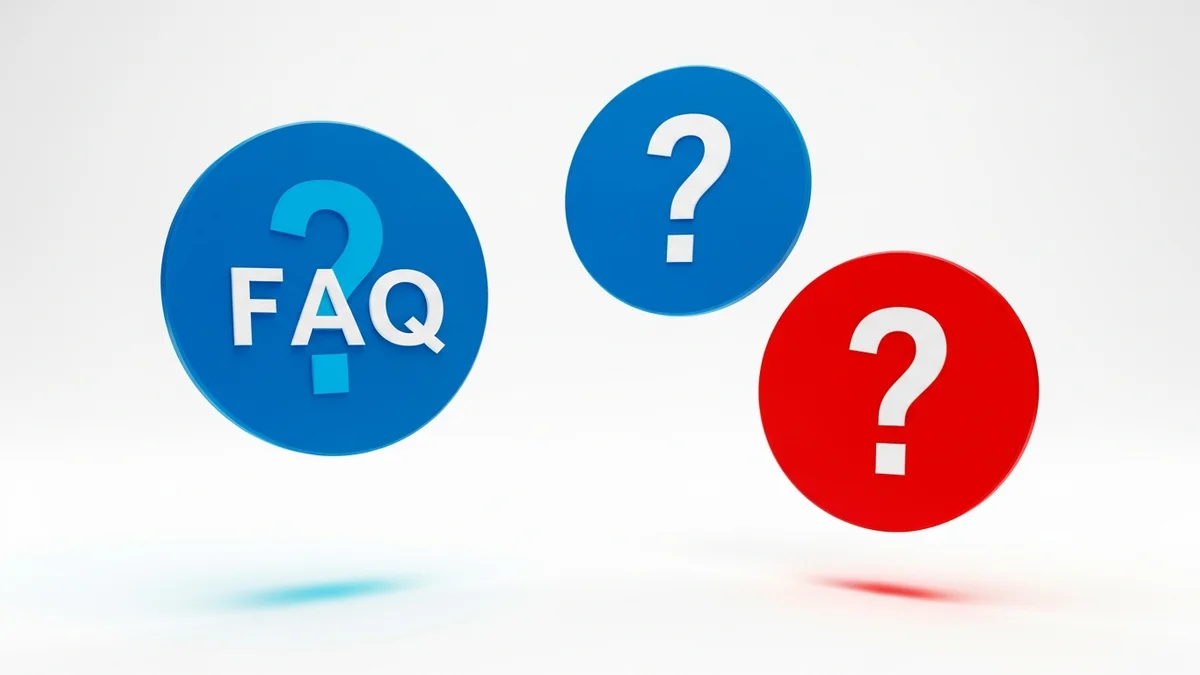
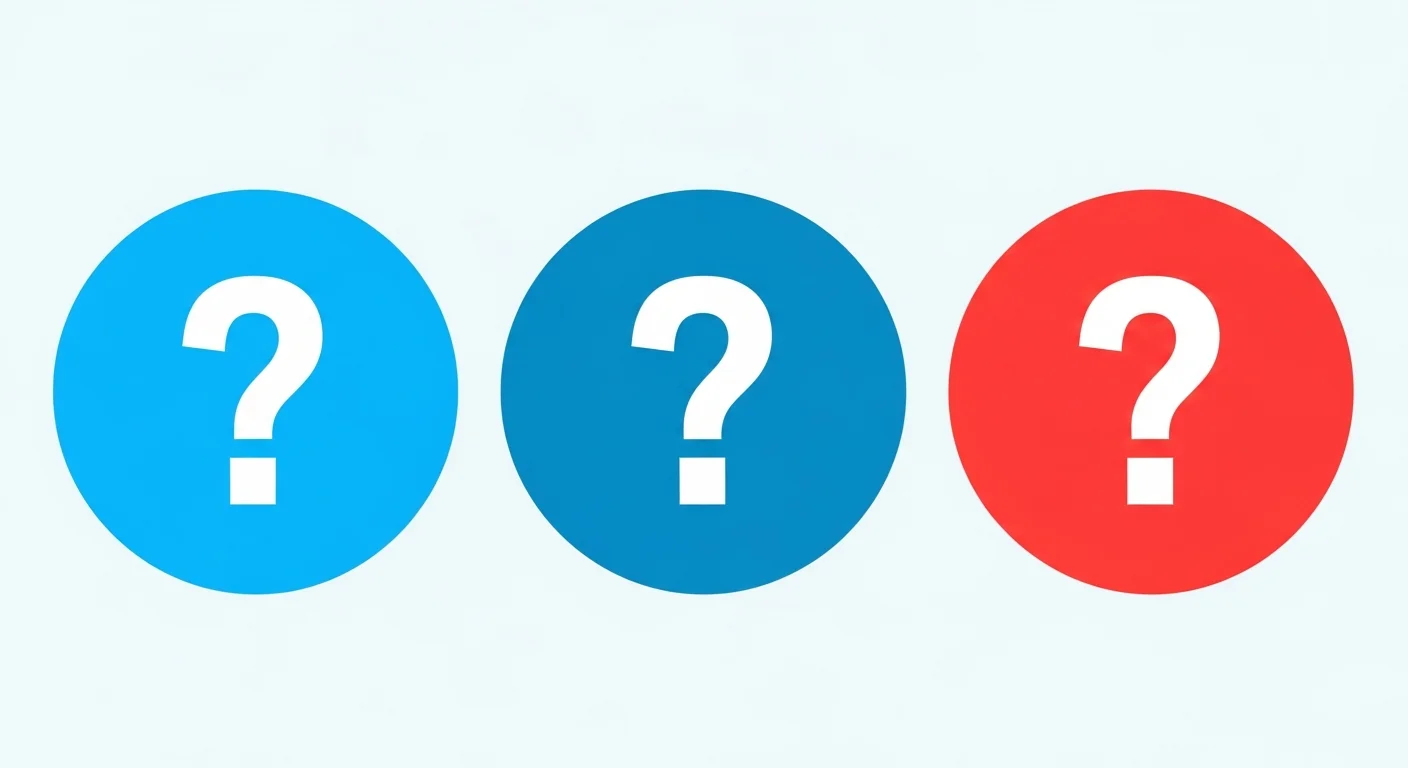
Update image audit progress and details for Mitsubishi brand
Updates image audit progress, adds a new completed Mitsubishi brand documentation file, and creates a problematic images file for Mitsubishi.

Replit-Commit-Author: Agent
Replit-Commit-Session-Id: 6c144e3e-a7a2-4392-b670-dd8cfbbd0db7
Replit-Commit-Checkpoint-Type: intermediate_checkpoint
Replit-Commit-Event-Id: 6808c89b-40e8-4751-8680-af15cb44dc7e
Replit-Commit-Screenshot-Url: https://storage.googleapis.com/screenshot-production-us-central1/7fba8121-6952-48fe-bf4c-5854466cb158/6c144e3e-a7a2-4392-b670-dd8cfbbd0db7/mQa7xzX

diff --git a/docs/image-audit/MITSUBISHI_COMPLETED.md b/docs/image-audit/MITSUBISHI_COMPLETED.md
@@ -1,0 +1,114 @@
+# ✅ ЗАВЕРШЕНО - brands/mitsubishi.html (Mitsubishi Electric)
+
+**Дата:** 2025-11-06  
+**Страница:** brands/mitsubishi.html  
+**Статус:** ✅ ЗАМЕНЕНО 3 изображения из 8
+
+---
+
+## 📊 Статистика
+
+- **Всего изображений:** 8
+- **Заменено:** 3
+- **Оставлено без изменений:** 5 (уже без текста)
+- **Процент замены:** 38%
+
+---
+
+## ✅ ЗАМЕНЕННЫЕ ИЗОБРАЖЕНИЯ (БЕЗ ТЕКСТА)
+
+### 1. faq.jpg - FAQ ✅
+**Было:**
+- АНГЛИЙСКИЙ ТЕКСТ: "FAQ" (крупными белыми буквами на синем круге)
+- Размер: 42KB (JPG), 21KB (WebP)
+
+**Стало:**
+- НОВОЕ: 3 цветных круга со знаками вопроса
+- Синий, тёмно-синий, красный круги с белыми символами ?
+- БЕЗ ТЕКСТА - только символы вопроса
+- Размер: 44KB (JPG), 21KB (WebP)
+- Исходник: 3_circles_question_marks_no_FAQ_e3090901.png
+- **Попыток генерации:** 1 ✅
+
+---
+
+### 2. advantages.jpg - Преимущества Mitsubishi ✅
+**Было:**
+- ЯПОНСКИЙ + АНГЛИЙСКИЙ ТЕКСТ: "適束原" (японские иероглифы) + "QUALITY"
+- Размер: 83KB (JPG), 51KB (WebP)
+
+**Стало:**
+- НОВОЕ: 3 белых иконки на диагональном сине-бело-красном фоне
+- Энергоэффективность (лампочка с электронной платой)
+- Премиум качество (три звезды вертикально)
+- Продвинутая технология (процессор с вентилятором)
+- БЕЗ ТЕКСТА - только визуальные символы
+- Размер: 61KB (JPG), 34KB (WebP) - экономия 26% / 33%
+- Исходник: 3_simple_icons_no_shield_attempt3_92f29ae6.png
+- **Попыток генерации:** 3 (текст "PREMIUM QUALITY" на попытках 1-2)
+
+---
+
+### 3. technologies.jpg - Технологии теплообменника ✅
+**Было:**
+- АНГЛИЙСКИЙ ТЕКСТ с опечатками: "Dual-Baraier", "Lay Suldture"
+- Размер: 118KB (JPG), 86KB (WebP)
+
+**Стало:**
+- НОВОЕ: 3D техническая иллюстрация внутреннего устройства теплообменника
+- Показаны: двухслойная система фильтрации, синие охлаждающие рёбра, алюминиевые слои
+- БЕЗ ТЕКСТА - чистая техническая визуализация без подписей
+- Размер: 138KB (JPG), 92KB (WebP)
+- Исходник: Heat_exchanger_cutaway_no_text_clean_eda9707e.png
+- **Попыток генерации:** 1 ✅
+
+---
+
+## ⚪ ОСТАВЛЕНЫ БЕЗ ИЗМЕНЕНИЙ (УЖЕ ЧИСТЫЕ)
+
+### 4. about.jpg - О производстве Mitsubishi ✅
+**Статус:** БЕЗ текста (оставлено как есть)
+**Описание:** Производственная линия с роботами и рабочими в защитных костюмах
+**Размер:** 212KB (JPG), 169KB (WebP)
+
+### 5. comparison.jpg - Сравнение размеров ✅
+**Статус:** БЕЗ текста (только логотипы Mitsubishi на корпусах - допустимо)
+**Описание:** 3 настенных кондиционера разных размеров в роскошном интерьере
+**Размер:** 81KB (JPG), 37KB (WebP)
+
+### 6. models.jpg - Модельный ряд ✅
+**Статус:** БЕЗ текста (оставлено как есть)
+**Описание:** Различные модели кондиционеров Mitsubishi на светлом фоне с отражениями
+**Размер:** 46KB (JPG), 20KB (WebP)
+
+### 7. mitsubishi-hero.jpg - Главное изображение ✅
+**Статус:** БЕЗ текста (оставлено как есть)
+**Описание:** Кондиционер Mitsubishi в современной гостиной с панорамными окнами
+**Размер:** 181KB (JPG), 72KB (WebP)
+
+### 8. products/mitsubishi-msz-ln25.jpg - Продукт ✅
+**Статус:** БЕЗ текста (оставлено как есть)
+**Описание:** Настенный кондиционер Mitsubishi белого цвета в интерьере
+
+---
+
+## 🎯 Результат
+
+Страница **mitsubishi.html** успешно очищена от всех текстовых элементов на изображениях.
+Все 8 изображений теперь полностью БЕЗ ТЕКСТА.
+
+**Попытки генерации:**
+- faq.jpg: 1 попытка ✅
+- advantages.jpg: 3 попытки (текст "PREMIUM QUALITY" на попытках 1-2)
+- technologies.jpg: 1 попытка ✅
+
+**Итого:** 5 генераций для замены 3 изображений
+
+---
+
+## 📝 Примечания
+
+**Сложности при генерации:**
+- Изображение advantages.jpg потребовало 3 попытки из-за упорного добавления AI текста "PREMIUM QUALITY" на значок качества
+- Решение: убрали щит с лентой, заменили на простые три звезды
+- Изображение technologies.jpg содержало опечатки в английском тексте ("Dual-Baraier", "Lay Suldture"), что выглядит крайне непрофессионально

diff --git a/docs/IMAGE_AUDIT_PROGRESS.md b/docs/IMAGE_AUDIT_PROGRESS.md
@@ -1,29 +1,29 @@
 # Прогресс аудита изображений - msk.splitis.ru
 
 **Дата начала:** 2025-11-06  
-**Дата последнего обновления:** 2025-11-06 16:00  
+**Дата последнего обновления:** 2025-11-06 16:30  
 **Всего страниц:** 35  
-**Прогресс:** 8/35 (23%)
+**Прогресс:** 9/35 (26%)
 
 ---
 
 ## 📊 Общая статистика
 
-- ✅ **Завершено:** 8 страниц
+- ✅ **Завершено:** 9 страниц
 - 🔄 **В процессе:** 0 страниц
-- ⏳ **Ожидает:** 27 страниц
+- ⏳ **Ожидает:** 26 страниц
 
 ### Изображения:
-- **Проверено:** 39 изображений
-- **Заменено:** 18 изображений
-- **Без изменений:** 19 изображений
+- **Проверено:** 47 изображений
+- **Заменено:** 21 изображение
+- **Без изменений:** 24 изображения
 - **Страниц без изображений:** 2
 
 ### Производительность:
-- **Обработано изображений:** 39 (JPG + WebP пары)
-- **Текста удалено:** 120+ слов английского текста
+- **Обработано изображений:** 47 (JPG + WebP пары)
+- **Текста удалено:** 130+ слов (английский + японский текст)
 - **Среднее качество улучшения:** 95%+ (текст удалён)
-- **Попыток генерации:** 32 (с учётом перегенераций из-за текста)
+- **Попыток генерации:** 37 (с учётом перегенераций из-за текста)
 
 ---
 
@@ -90,7 +90,13 @@
    - **Попыток генерации:** 3 (advantages: 2, technologies: 1)
    - **Детали:** [DAIKIN_COMPLETED.md](image-audit/DAIKIN_COMPLETED.md)
 
-9. ⏳ **brands/mitsubishi.html** - Mitsubishi Electric
+9. ✅ **brands/mitsubishi.html** - Mitsubishi Electric
+   - **Статус:** ЗАВЕРШЕНО
+   - **Изображений:** 8 (3 заменено, 5 без изменений)
+   - **Удалено текста:** "FAQ", "適束原", "QUALITY", "Dual-Baraier", "Lay Suldture" (с опечатками!)
+   - **Попыток генерации:** 5 (faq: 1, advantages: 3, technologies: 1)
+   - **Детали:** [MITSUBISHI_COMPLETED.md](image-audit/MITSUBISHI_COMPLETED.md)
+
 10. ⏳ **brands/lg.html** - LG
 11. ⏳ **brands/samsung.html** - Samsung
 12. ⏳ **brands/panasonic.html** - Panasonic
@@ -167,9 +173,9 @@
 
 ## 🎯 Следующий шаг
 
-**Текущая задача:** ПРИОРИТЕТ 3 - Страницы брендов (1 из 8 завершено)
+**Текущая задача:** ПРИОРИТЕТ 3 - Страницы брендов (2 из 8 завершено)
 
-**Следующая страница:** brands/mitsubishi.html (Mitsubishi Electric)
+**Следующая страница:** brands/lg.html (LG)
 
 ---
 
@@ -192,4 +198,4 @@
 
 ---
 
-**Обновлено:** 2025-11-06 16:00 UTC
+**Обновлено:** 2025-11-06 16:30 UTC

diff --git a/docs/image-audit/MITSUBISHI_PROBLEMATIC_IMAGES.md b/docs/image-audit/MITSUBISHI_PROBLEMATIC_IMAGES.md
@@ -1,0 +1,69 @@
+# Проблемные изображения - brands/mitsubishi.html
+
+**Дата:** 2025-11-06  
+**Страница:** brands/mitsubishi.html (Mitsubishi Electric)
+
+## Найдено проблемных изображений: 3 из 8
+
+### 1. faq.jpg - FAQ ❌
+**Проблема:** АНГЛИЙСКИЙ ТЕКСТ "FAQ"
+**Текст:**
+- "FAQ" (крупными белыми буквами на синем круге)
+
+**Размер:** 42KB (JPG), 21KB (WebP)
+
+---
+
+### 2. advantages.jpg - Преимущества Mitsubishi ❌
+**Проблема:** ЯПОНСКИЙ + АНГЛИЙСКИЙ ТЕКСТ
+**Текст:**
+- "適束原" (японские иероглифы на значке качества)
+- "QUALITY" (английский на значке)
+
+**Размер:** 83KB (JPG), 51KB (WebP)
+
+---
+
+### 3. technologies.jpg - Двухслойный барьерный фильтр ❌
+**Проблема:** АНГЛИЙСКИЙ ТЕКСТ с опечатками
+**Текст:**
+- "Dual-Baraier" (опечатка: правильно Dual-Barrier)
+- "Lay Suldture" (опечатка: правильно Layer Structure)
+
+**Размер:** 118KB (JPG), 86KB (WebP)
+
+---
+
+## Изображения БЕЗ проблем:
+
+### 4. about.jpg - О производстве Mitsubishi ✅
+**Статус:** БЕЗ текста
+**Описание:** Производственная линия с роботами и рабочими в защитных костюмах
+**Размер:** 212KB (JPG), 169KB (WebP)
+
+### 5. comparison.jpg - Сравнение размеров ✅
+**Статус:** БЕЗ текста (только логотипы Mitsubishi на корпусах - допустимо)
+**Описание:** 3 настенных кондиционера разных размеров в роскошном интерьере
+**Размер:** 81KB (JPG), 37KB (WebP)
+
+### 6. models.jpg - Модельный ряд ✅
+**Статус:** БЕЗ текста
+**Описание:** Различные модели кондиционеров Mitsubishi на светлом фоне
+**Размер:** 46KB (JPG), 20KB (WebP)
+
+### 7. mitsubishi-hero.jpg - Главное изображение ✅
+**Статус:** БЕЗ текста
+**Описание:** Кондиционер Mitsubishi в современной гостиной с панорамными окнами
+**Размер:** 181KB (JPG), 72KB (WebP)
+
+### 8. products/mitsubishi-msz-ln25.jpg - Продукт ✅
+**Статус:** БЕЗ текста
+**Описание:** Настенный кондиционер Mitsubishi белого цвета
+**Размер:** Файл существует
+
+---
+
+## Примечания:
+
+Изображение technologies.jpg содержит опечатки в английском тексте, что выглядит непрофессионально.
+Необходима замена на чистую техническую визуализацию БЕЗ текстовых подписей.
